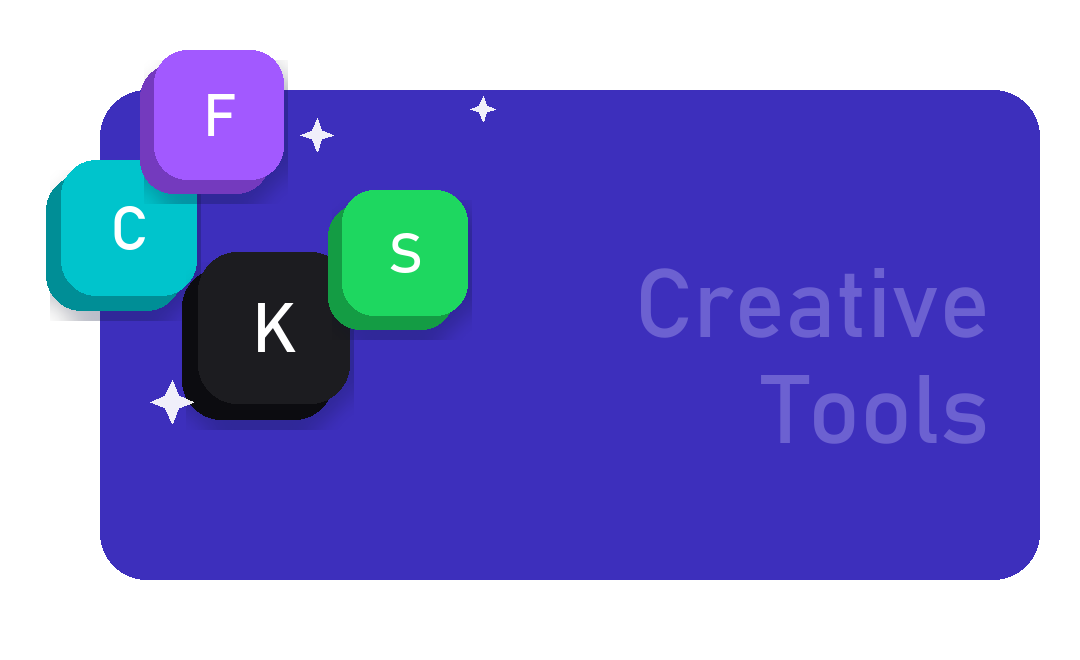
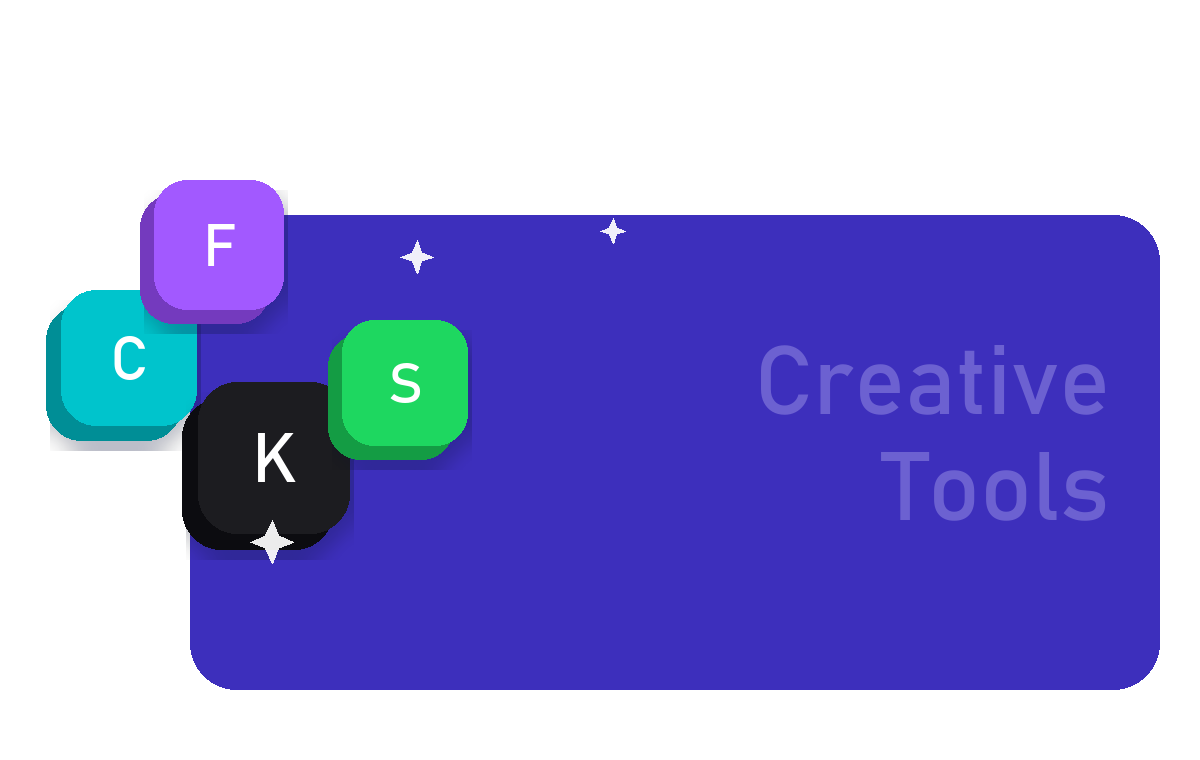
بولت دایرهای واقعی، بنر بریدهنشده و هاور ملایم کارت
سه ایراد که هر سه یک ریشه داشتند: چیزی که رسم میشد با چیزی که
انتظار میرفت فرق داشت.

بولتهای اسلایدر مربع بودند نه دایره. علتش background-clip:
content-box بود — border-radius روی جعبهی بیرونی اعمال میشود نه
ناحیهی رنگشده، پس آنچه رسم میشد یک مربع ۹ پیکسلی بود. حالا نقطه
یک ::before با شعاع خودش است و دکمه فقط ناحیهی لمسی میسازد.

سرِ کاراکترهای گیم بریده میشد. قاب بنر aspect-ratio: 16/7 با
object-fit: cover بود و بنر ۱۶:۹؛ cover بالا و پایین را میبرید و
دقیقاً سر کاراکترها میرفت. حالا contain است و پسزمینهی خاکستری
هم برداشته شد تا نواحی شفافِ بنر مستطیل خاکستری نشان ندهند.

بوم بنر هم بزرگتر شد و مستطیل کوچکتر و پایینتر، پس کاراکتر از
بالا و چپ بیرون میزند و سرش هنوز داخل بوم میماند.

هاور کارت هم ملایم شد: بلند شدن از ۵ به ۲ پیکسل و بزرگنمایی تصویر
از ۸ به ۳ درصد. در شبکهی چهارستونه، حرکتِ زیاد حس بههمریختگی
میداد. هیچکدام روی چیدمان اثر ندارند — translate و scale فقط رسم
را جابهجا میکنند، پس کارتهای کناری سرجایشان میمانند.

diff --git a/src/components/home/home.css b/src/components/home/home.css
@@ -57,13 +57,25 @@
   margin-bottom: var(--sp-6);
 }
 
+/* قاب بنر — contain، نه cover.
+
+   بنرها پسزمینهی شفاف دارند و کاراکتر عمداً از مستطیل آبی بیرون
+   میزند. با cover و نسبت ۱۶:۷، بالا و پایینِ تصویر بریده میشد و
+   دقیقاً سرِ کاراکترها میرفت.
+
+   پسزمینه هم برداشته شد: قسمتهای شفافِ بنر نباید مستطیل خاکستری
+   نشان بدهند. */
 .hero__img {
-  border-radius: var(--r-md);
-  overflow: hidden;
-  aspect-ratio: 16 / 7;
-  background: var(--sunken);
+  aspect-ratio: 16 / 9;
+  display: grid;
+  place-items: center;
 }
-.hero__img img { width: 100%; height: 100%; object-fit: cover; }
+.hero__img img {
+  width: 100%;
+  height: 100%;
+  object-fit: contain;
+  object-position: center;
+}
 
 /* پیکانها بیرون از ظرف، چسبیده به لبهی قاب */
 .hero__arrow {
@@ -103,27 +115,39 @@
 
    فاصله هم بیشتر شد: هشت پیکسل padding افقی، داتها را به هم
    میچسباند. */
+/* نقطه با شبهعنصر ساخته میشود، نه با background-clip.
+
+   نسخهی قبل از background-clip: content-box استفاده میکرد تا
+   ناحیهی قابل زدن بزرگ بماند ولی نقطه کوچک. مشکلش این بود که
+   border-radius روی جعبهی *بیرونی* اعمال میشود نه ناحیهی
+   رنگشده — پس آنچه رسم میشد یک مربعِ ۹ پیکسلی بود.
+
+   حالا خودِ دکمه شفاف است و فقط ناحیهی لمسی را میسازد؛ نقطه یک
+   ::before با شعاع خودش است و واقعاً گرد میشود. */
 .hero__dots button {
-  box-sizing: content-box;
-  width: 9px; height: 9px;
-  padding: 14px 10px;
+  width: 30px; height: 36px;
+  display: grid;
+  place-items: center;
+  padding: 0;
   border: 0;
-  background: var(--line);
-  background-clip: content-box;
-  border-radius: var(--r-full);
+  background: transparent;
   cursor: pointer;
+}
+
+.hero__dots button::before {
+  content: '';
+  width: 9px; height: 9px;
+  border-radius: 50%;
+  background: var(--line);
   transition: background var(--dur) var(--ease), scale var(--dur) var(--ease);
 }
-.hero__dots button.is-on {
-  background: var(--blue);
-  background-clip: content-box;
-  scale: 1.35;
-}
-[data-theme='dark'] .hero__dots button { background: rgba(255, 255, 255, 0.28); background-clip: content-box; }
-[data-theme='dark'] .hero__dots button.is-on { background: var(--blue); background-clip: content-box; }
+.hero__dots button.is-on::before { background: var(--blue); scale: 1.4; }
+
+[data-theme='dark'] .hero__dots button::before { background: rgba(255, 255, 255, 0.3); }
+[data-theme='dark'] .hero__dots button.is-on::before { background: var(--blue); }
 
 @media (prefers-reduced-motion: reduce) {
-  .hero__dots button.is-on { scale: 1; }
+  .hero__dots button.is-on::before { scale: 1; }
 }
 
 /* ---------- جعبهی محاسبه ----------

diff --git a/src/components/product/product.css b/src/components/product/product.css
@@ -21,12 +21,20 @@
               box-shadow 340ms var(--ease);
 }
 
+/* هاور کم و آرام.
+
+   بلند شدنِ ۵ پیکسلی با بزرگنماییِ ۸ درصدیِ تصویر، در یک شبکهی
+   چهارستونه حس بههمریختگی میداد — چشم فکر میکرد کل ردیف تکان
+   خورد.
+
+   هیچکدام از اینها هم روی چیدمان اثر ندارند: translate و scale
+   فقط رسم را جابهجا میکنند، پس کارتهای کناری سرجایشان میمانند. */
 .pcard:hover {
-  translate: 0 -5px;
+  translate: 0 -2px;
   border-color: color-mix(in srgb, var(--accent) 45%, transparent);
   box-shadow:
-    0 18px 34px -22px rgba(15, 17, 32, 0.18),
-    0 0 40px -12px color-mix(in srgb, var(--accent) 42%, transparent);
+    0 12px 26px -20px rgba(15, 17, 32, 0.16),
+    0 0 28px -14px color-mix(in srgb, var(--accent) 30%, transparent);
 }
 
 [data-theme='dark'] .pcard {
@@ -169,11 +177,11 @@
   filter: drop-shadow(0 12px 18px rgba(0, 0, 0, 0.28));
   transition: scale 700ms var(--ease), translate 500ms var(--ease);
 }
-.pcard:hover .pcard__art--game img { scale: 1.04; translate: 0 -4px; }
+.pcard:hover .pcard__art--game img { scale: 1.02; translate: 0 -2px; }
 
 /* لایهی نشانها باید بالای کاراکتر بماند */
 .pcard__over { z-index: 3; }
-.pcard:hover .pcard__art img { scale: 1.08; }
+.pcard:hover .pcard__art img { scale: 1.03; }
 
 /* صفحهی جایگزین — وقتی تصویر محصول هنوز ساخته نشده */
 .art-plate {
